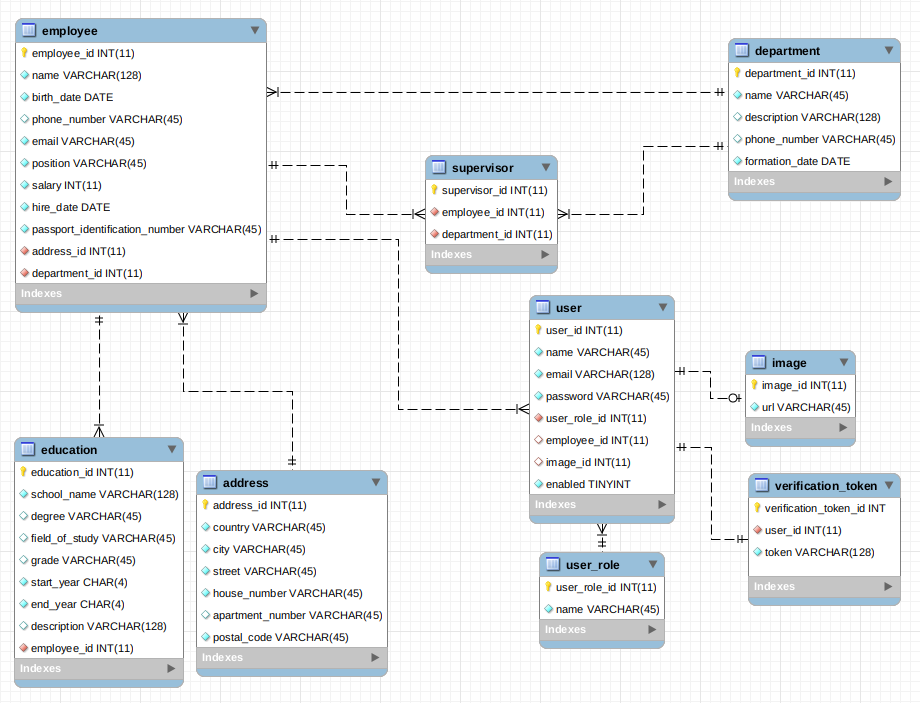
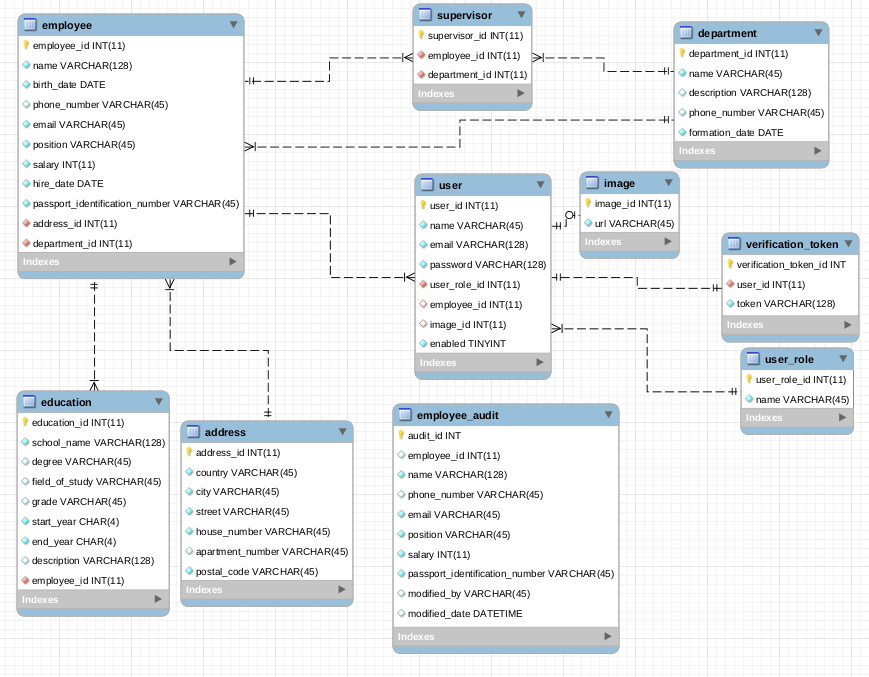
auditing for employee

diff --git a/src/main/java/com/moro/model/entity/audit/EmployeeAudit.java b/src/main/java/com/moro/model/entity/audit/EmployeeAudit.java
@@ -1,0 +1,79 @@
+package com.moro.model.entity.audit;
+
+import com.moro.model.entity.Employee;
+import lombok.AllArgsConstructor;
+import lombok.Builder;
+import lombok.Getter;
+import lombok.NoArgsConstructor;
+import lombok.Setter;
+import org.hibernate.annotations.GenericGenerator;
+import org.springframework.data.annotation.LastModifiedBy;
+import org.springframework.data.annotation.LastModifiedDate;
+import org.springframework.data.jpa.domain.support.AuditingEntityListener;
+
+import javax.persistence.Column;
+import javax.persistence.Entity;
+import javax.persistence.EntityListeners;
+import javax.persistence.GeneratedValue;
+import javax.persistence.Id;
+import javax.persistence.Table;
+import java.io.Serializable;
+import java.time.LocalDateTime;
+
+@Getter
+@Setter
+@Builder
+@NoArgsConstructor
+@AllArgsConstructor
+@Entity
+@Table(name = "employee_audit")
+@EntityListeners(AuditingEntityListener.class)
+public class EmployeeAudit implements Serializable {
+
+    @Id
+    @GeneratedValue(generator = "increment")
+    @GenericGenerator(name = "increment", strategy = "increment")
+    @Column(name = "audit_id", nullable = false, unique = true)
+    private Integer auditId;
+
+    @Column(name = "employee_id")
+    private Integer employeeId;
+
+    @Column
+    private String name;
+
+    @Column(name = "phone_number")
+    private String phoneNumber;
+
+    @Column
+    private String email;
+
+    @Column
+    private String position;
+
+    @Column
+    private Integer salary;
+
+    @Column(name = "passport_identification_number")
+    private String passportIdentificationNumber;
+
+    @Column(name = "modified_by")
+    @LastModifiedBy
+    private String modifiedBy;
+
+    @Column(name = "modified_date")
+    @LastModifiedDate
+    private LocalDateTime modifiedDate;
+
+    public static EmployeeAudit of(final Employee employee) {
+        return EmployeeAudit.builder()
+                .email(employee.getEmail())
+                .employeeId(employee.getEmployeeId())
+                .name(employee.getName())
+                .passportIdentificationNumber(employee.getPassportIdentificationNumber())
+                .phoneNumber(employee.getPhoneNumber())
+                .position(employee.getPosition())
+                .salary(employee.getSalary())
+                .build();
+    }
+}

diff --git a/src/main/java/com/moro/web/rest/EmployeeAuditRestController.java b/src/main/java/com/moro/web/rest/EmployeeAuditRestController.java
@@ -1,0 +1,46 @@
+package com.moro.web.rest;
+
+import com.moro.model.entity.audit.EmployeeAudit;
+import com.moro.service.EmployeeAuditService;
+import lombok.extern.slf4j.Slf4j;
+import org.springframework.beans.factory.annotation.Autowired;
+import org.springframework.http.HttpStatus;
+import org.springframework.http.ResponseEntity;
+import org.springframework.web.bind.annotation.GetMapping;
+import org.springframework.web.bind.annotation.PathVariable;
+import org.springframework.web.bind.annotation.RequestMapping;
+import org.springframework.web.bind.annotation.RestController;
+
+import java.util.List;
+
+@RestController
+@RequestMapping(value = "/employee")
+@Slf4j
+public class EmployeeAuditRestController {
+
+    private final EmployeeAuditService employeeAuditService;
+
+    @Autowired
+    public EmployeeAuditRestController(final EmployeeAuditService employeeAuditService) {
+        this.employeeAuditService = employeeAuditService;
+    }
+
+    @GetMapping(value = "/audit")
+    public ResponseEntity<List<EmployeeAudit>> findAll() {
+        return new ResponseEntity<>(employeeAuditService.findAll(), HttpStatus.FOUND);
+    }
+
+    @GetMapping(value = "/audit/{auditId}")
+    public ResponseEntity<EmployeeAudit> findById(@PathVariable final int auditId) {
+        return new ResponseEntity<>(employeeAuditService.findById(auditId), HttpStatus.FOUND);
+    }
+
+    @GetMapping(value = "/{employeeId}/audit")
+    public ResponseEntity<List<EmployeeAudit>> findAllByEmployeeId(@PathVariable
+                                                                       final int employeeId) {
+        return new ResponseEntity<>(
+                employeeAuditService.findAllByEmployeeId(employeeId),
+                HttpStatus.FOUND
+        );
+    }
+}

diff --git a/src/main/java/com/moro/service/impl/EmployeeAuditServiceImpl.java b/src/main/java/com/moro/service/impl/EmployeeAuditServiceImpl.java
@@ -1,0 +1,49 @@
+package com.moro.service.impl;
+
+import com.moro.dao.repository.EmployeeAuditRepository;
+import com.moro.model.entity.Employee;
+import com.moro.model.entity.audit.EmployeeAudit;
+import com.moro.model.exception.EntityNotFoundException;
+import com.moro.service.EmployeeAuditService;
+import lombok.extern.slf4j.Slf4j;
+import org.springframework.beans.factory.annotation.Autowired;
+import org.springframework.stereotype.Service;
+import org.springframework.transaction.annotation.Transactional;
+
+import java.util.List;
+
+@Service
+@Transactional
+@Slf4j
+public class EmployeeAuditServiceImpl implements EmployeeAuditService {
+
+    private final EmployeeAuditRepository employeeAuditRepository;
+
+    @Autowired
+    public EmployeeAuditServiceImpl(final EmployeeAuditRepository employeeAuditRepository) {
+        this.employeeAuditRepository = employeeAuditRepository;
+    }
+
+    @Override
+    public EmployeeAudit save(final Employee employee) {
+        return employeeAuditRepository.saveAndFlush(EmployeeAudit.of(employee));
+    }
+
+    @Override
+    public List<EmployeeAudit> findAll() {
+        return employeeAuditRepository.findAll();
+    }
+
+    @Override
+    public EmployeeAudit findById(final int id) {
+        return employeeAuditRepository.findById(id)
+                .orElseThrow(() -> new EntityNotFoundException(
+                        String.format("No employee audit with id %d", id)
+                ));
+    }
+
+    @Override
+    public List<EmployeeAudit> findAllByEmployeeId(final int employeeId) {
+        return employeeAuditRepository.findAllByEmployeeId(employeeId);
+    }
+}

diff --git a/src/main/java/com/moro/service/impl/EmployeeServiceImpl.java b/src/main/java/com/moro/service/impl/EmployeeServiceImpl.java
@@ -4,6 +4,7 @@ import com.moro.dao.repository.EmployeeRepository;
 import com.moro.model.entity.Employee;
 import com.moro.model.exception.EntityNotFoundException;
 import com.moro.model.search.EmployeeFacetedSearch;
+import com.moro.service.EmployeeAuditService;
 import com.moro.service.EmployeeService;
 import com.moro.service.validator.EmployeeValidator;
 import lombok.extern.slf4j.Slf4j;
@@ -20,10 +21,13 @@ import org.springframework.transaction.annotation.Transactional;
 public class EmployeeServiceImpl implements EmployeeService {
 
     private final EmployeeRepository employeeRepository;
+    private final EmployeeAuditService employeeAuditService;
 
     @Autowired
-    public EmployeeServiceImpl(final EmployeeRepository employeeRepository) {
+    public EmployeeServiceImpl(final EmployeeRepository employeeRepository,
+                               final EmployeeAuditService employeeAuditService) {
         this.employeeRepository = employeeRepository;
+        this.employeeAuditService = employeeAuditService;
     }
 
     @Override
@@ -36,6 +40,8 @@ public class EmployeeServiceImpl implements EmployeeService {
     @Override
     public Employee updateEmployee(final Employee employee) {
         log.info("Updating employee with id {}", employee.getEmployeeId());
+
+        employeeAuditService.save(tryFindEmployeeById(employee.getEmployeeId()));
 
         return employeeRepository.saveAndFlush(employee);
     }

diff --git a/src/main/java/com/moro/service/impl/AuditorAwareImpl.java b/src/main/java/com/moro/service/impl/AuditorAwareImpl.java
@@ -1,0 +1,22 @@
+package com.moro.service.impl;
+
+import org.springframework.data.domain.AuditorAware;
+import org.springframework.security.core.context.SecurityContextHolder;
+import org.springframework.stereotype.Service;
+import org.springframework.transaction.annotation.Transactional;
+
+import java.util.Optional;
+
+@Service
+@Transactional
+public class AuditorAwareImpl implements AuditorAware<String> {
+
+    @Override
+    public Optional<String> getCurrentAuditor() {
+        return Optional.ofNullable(
+                SecurityContextHolder
+                        .getContext()
+                        .getAuthentication()
+                        .getName());
+    }
+}

diff --git a/src/main/java/com/moro/web/rest/UserRestController.java b/src/main/java/com/moro/web/rest/UserRestController.java
@@ -136,8 +136,8 @@ public class UserRestController {
 
     @GetMapping(value = "/{userId}/photo")
     public void downloadUserPhoto(@PathVariable final int userId,
-                                                    final Principal principal,
-                                                    HttpServletResponse response) throws IOException {
+                                  final Principal principal,
+                                  final HttpServletResponse response) throws IOException {
         log.info("Downloading photo of user with id {} by {}", userId, principal);
 
         byte[] photoBytes = userService.getPhotoAsByteArray(userId);

diff --git a/src/main/java/com/moro/Application.java b/src/main/java/com/moro/Application.java
@@ -4,10 +4,12 @@ import org.springframework.boot.SpringApplication;
 import org.springframework.boot.autoconfigure.SpringBootApplication;
 import org.springframework.boot.builder.SpringApplicationBuilder;
 import org.springframework.boot.web.servlet.support.SpringBootServletInitializer;
+import org.springframework.data.jpa.repository.config.EnableJpaAuditing;
 import org.springframework.transaction.annotation.EnableTransactionManagement;
 
 @SpringBootApplication
 @EnableTransactionManagement
+@EnableJpaAuditing
 public class Application extends SpringBootServletInitializer {
 
     @Override

diff --git a/src/main/java/com/moro/web/config/security/oauth2/ResourceServerConfiguration.java b/src/main/java/com/moro/web/config/security/oauth2/ResourceServerConfiguration.java
@@ -38,6 +38,9 @@ public class ResourceServerConfiguration extends ResourceServerConfigurerAdapter
         http.requestMatchers()
                 .antMatchers("/**")
                 .and().authorizeRequests()
+                .antMatchers("**audit**")
+                .hasAuthority(AUTHORITY_ADMIN)
+
                 .antMatchers(HttpMethod.GET, "/department**", "/employee**")
                 .hasAnyAuthority(AUTHORITY_ADMIN, AUTHORITY_USER)
 

diff --git a/src/main/java/com/moro/dao/repository/EmployeeAuditRepository.java b/src/main/java/com/moro/dao/repository/EmployeeAuditRepository.java
@@ -1,0 +1,13 @@
+package com.moro.dao.repository;
+
+import com.moro.model.entity.audit.EmployeeAudit;
+import org.springframework.data.jpa.repository.JpaRepository;
+import org.springframework.stereotype.Repository;
+
+import java.util.List;
+
+@Repository
+public interface EmployeeAuditRepository extends JpaRepository<EmployeeAudit, Integer> {
+
+    List<EmployeeAudit> findAllByEmployeeId(int employeeId);
+}

diff --git a/src/main/java/com/moro/service/EmployeeAuditService.java b/src/main/java/com/moro/service/EmployeeAuditService.java
@@ -1,0 +1,17 @@
+package com.moro.service;
+
+import com.moro.model.entity.Employee;
+import com.moro.model.entity.audit.EmployeeAudit;
+
+import java.util.List;
+
+public interface EmployeeAuditService {
+
+    EmployeeAudit save(Employee employee);
+
+    List<EmployeeAudit> findAll();
+
+    EmployeeAudit findById(int id);
+
+    List<EmployeeAudit> findAllByEmployeeId(int employeeId);
+}
